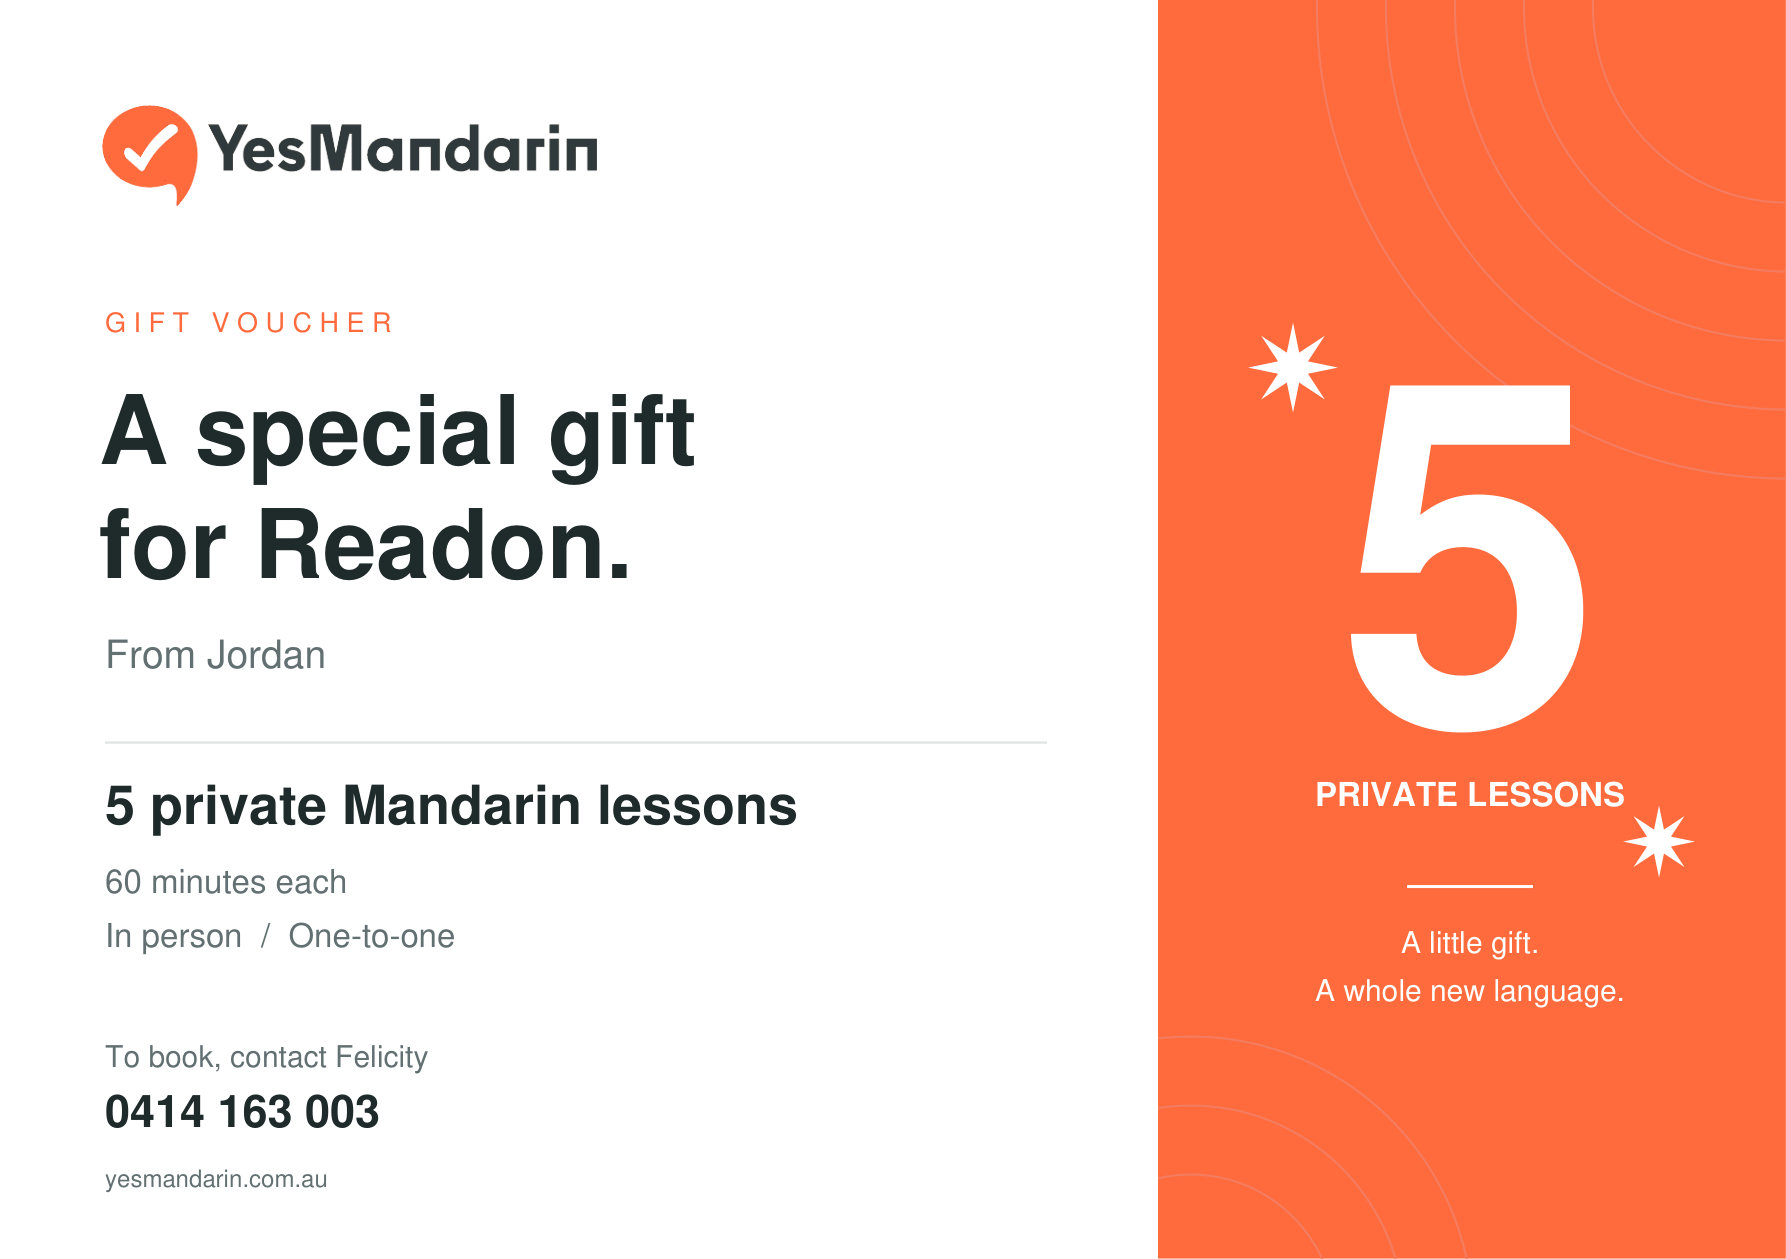
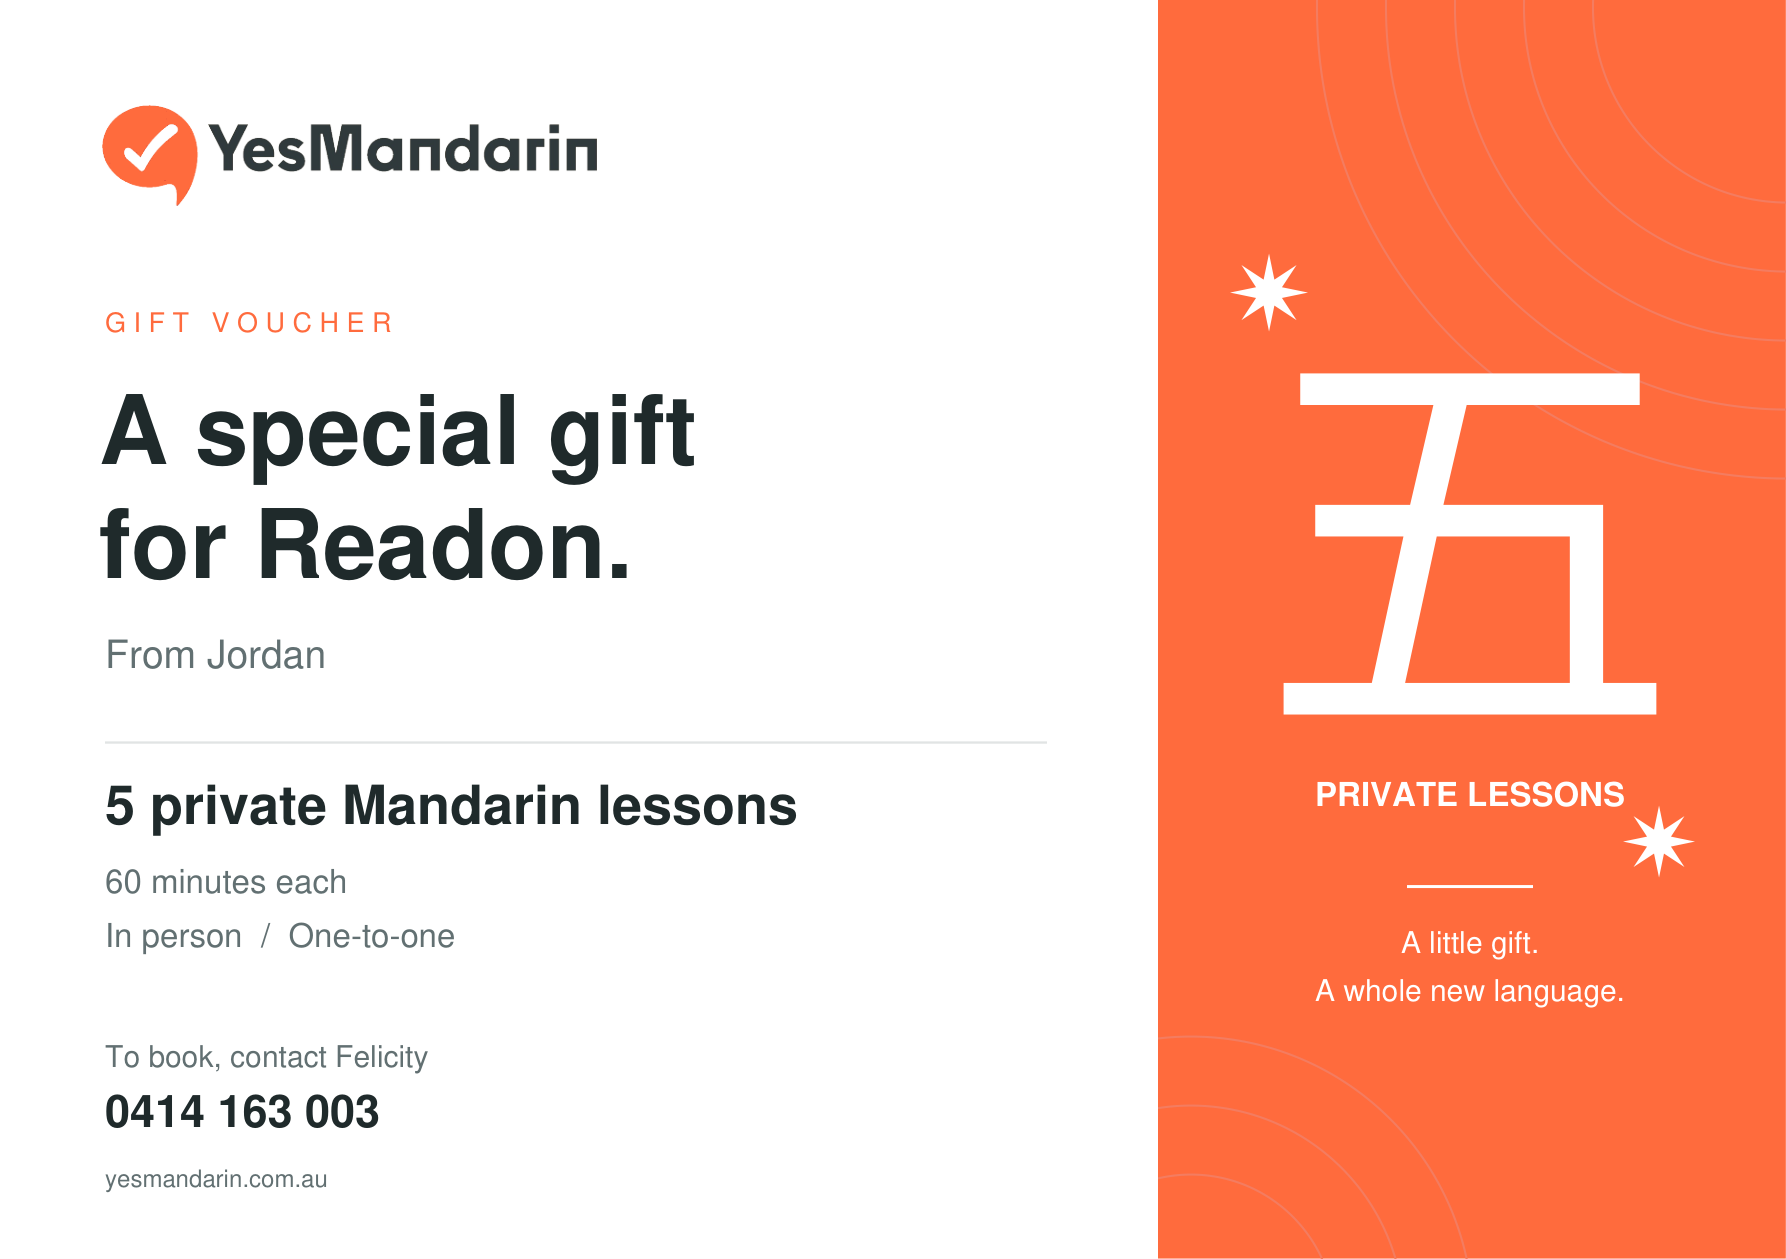
Use Chinese character five on gift voucher

Changed region(s): [[0.6775, 0.2168, 0.9239, 0.5886]]

diff --git a/Yujie/YesMandarin/gift-vouchers/create_voucher_v2.py b/Yujie/YesMandarin/gift-vouchers/create_voucher_v2.py
@@ -67,8 +67,14 @@ text('To book, contact Felicity',35,64,10,colour=muted)
 text('0414 163 003',35,44,15,'Helvetica-Bold')
 text('yesmandarin.com.au',35,24,8,colour=muted)
 # The lesson count is the graphic centrepiece, with small sparkle details.
-star(431,297,15); star(553,139,12)
-c.setFillColor(white); c.setFont('Helvetica-Bold',158); c.drawCentredString(490,179,'5')
+star(423,322,13); star(553,139,12)
+from reportlab.pdfbase import pdfmetrics
+from reportlab.pdfbase.ttfonts import TTFont
+# Embed a real CJK font so the character travels with the PDF.
+cjk = pymupdf.Font('china-s')
+from io import BytesIO
+pdfmetrics.registerFont(TTFont('VoucherCJK', BytesIO(cjk.buffer)))
+c.setFillColor(white); c.setFont('VoucherCJK',142); c.drawCentredString(490,188,'五')
 c.setFont('Helvetica-Bold',11); c.drawCentredString(490,151,'PRIVATE LESSONS')
 c.setStrokeColor(white); c.setLineWidth(1); c.line(469,124,511,124)
 c.setFont('Helvetica',10); c.drawCentredString(490,102,'A little gift.')
